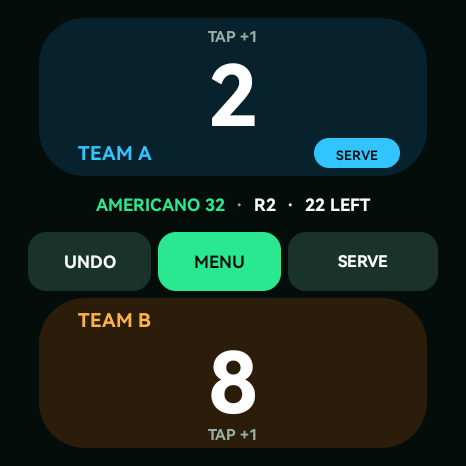
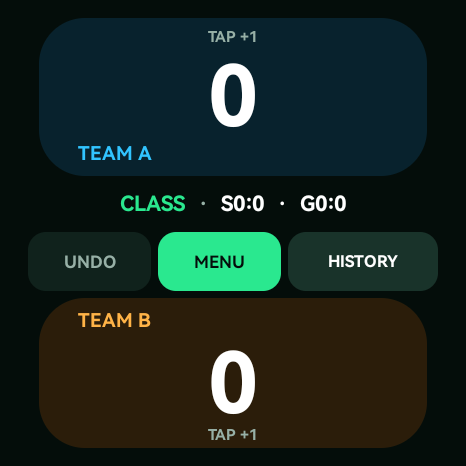
feat: enlarge compact match status

diff --git a/entry/src/main/js/MainAbility/pages/index/index.js b/entry/src/main/js/MainAbility/pages/index/index.js
@@ -63,6 +63,8 @@ export default {
     progressPercent: 0,
     showServer: true,
     currentServer: 'A',
+    matchInfoText: 'AM24 · R1 · 24 LEFT',
+    matchInfoClass: '',
     statusText: 'IN PLAY',
     statusClass: '',
     completedClass: '',
@@ -151,6 +153,42 @@ export default {
     return this.$t('strings.americano') + ' ' + String(settings.totalPoints);
   },
 
+  compactModeLabel(mode, settings) {
+    if (mode === 'classic') return 'CLASS';
+    if (mode === 'single_set') return '1SET';
+    if (mode === 'tie_break') return 'TB' + String(settings.target);
+    if (mode === 'super_tie_break') return 'STB' + String(settings.target);
+    if (mode === 'race_to_n') return 'RACE' + String(settings.target);
+    return 'AM' + String(settings.totalPoints);
+  },
+
+  compactMatchInfo(state, presentation) {
+    const mode = this.compactModeLabel(state.mode, state.settings);
+    if (presentation.completed) {
+      const result = presentation.winner === 'draw'
+        ? 'DRAW'
+        : String(presentation.winner) + ' WINS';
+      return mode + ' · ' + result;
+    }
+    if ((state.mode === 'classic' || state.mode === 'single_set')
+        && presentation.tieBreak) {
+      return mode + ' · TB · S' + presentation.setsA + ':' + presentation.setsB
+        + ' · G' + presentation.gamesA + ':' + presentation.gamesB;
+    }
+    if (state.mode === 'classic') {
+      return mode + ' · S' + presentation.setsA + ':' + presentation.setsB
+        + ' · G' + presentation.gamesA + ':' + presentation.gamesB;
+    }
+    if (state.mode === 'single_set') {
+      return mode + ' · G' + presentation.gamesA + ':' + presentation.gamesB;
+    }
+    if (state.mode === 'americano') {
+      return mode + ' · R' + state.roundNumber + ' · '
+        + presentation.remainingPoints + ' LEFT';
+    }
+    return mode + ' · ' + presentation.remainingPoints + ' LEFT';
+  },
+
   renderEngine() {
     const state = engine.state;
     const presentation = engine.presentation;
@@ -170,6 +208,8 @@ export default {
     this.currentServer = presentation.currentServer;
     this.completedClass = presentation.completed ? 'complete-card' : '';
     this.statusClass = presentation.completed ? 'finished-status' : '';
+    this.matchInfoText = this.compactMatchInfo(state, presentation);
+    this.matchInfoClass = presentation.completed ? 'match-info-finished' : '';
     if (presentation.completed) {
       this.statusText = presentation.winner === 'draw'
         ? this.$t('strings.roundDraw')

diff --git a/entry/src/main/js/MainAbility/pages/index/index.css b/entry/src/main/js/MainAbility/pages/index/index.css
@@ -368,6 +368,14 @@ switch {
   text-align: center;
 }
 
+.match-info-line {
+  width: 100%;
+  color: #f0f3f8;
+  font-size: 20px;
+  font-weight: 700;
+  text-align: center;
+}
+
 .server-line {
   width: 100%;
   color: #ffcb45;
@@ -384,6 +392,7 @@ switch {
   text-align: center;
 }
 
+.match-info-finished { color: #7cff9b; }
 .finished-status { color: #7cff9b; }
 
 .footer-row {

diff --git a/compat-android/src/com/vekom/padelprobe/MainActivity.java b/compat-android/src/com/vekom/padelprobe/MainActivity.java
@@ -478,16 +478,7 @@ public final class MainActivity extends Activity {
                     Color.WHITE, Paint.Align.CENTER, true);
             drawTeamHeader(canvas, Team.A, 160, 138, 168);
 
-            String headline = state.completed ? engine.statusLabel()
-                    : state.inTieBreak ? "TIE-BREAK" : engine.modeLabel();
-            if (!state.completed && state.mode == Mode.AMERICANO) {
-                drawAmericanoStatusLine(canvas, state);
-            } else {
-                text(canvas, headline, BASE / 2, 199, state.completed ? 19 : 17,
-                        green, Paint.Align.CENTER, true);
-                text(canvas, matchDetailLabel(state), BASE / 2, 222, 15,
-                        state.completed ? Color.WHITE : muted, Paint.Align.CENTER, true);
-            }
+            drawMatchInfoLine(canvas, state);
 
             smallButton(canvas, 28, 232, 151, 291, "UNDO",
                     engine.canUndo() ? panelLight : panel,
@@ -536,33 +527,64 @@ public final class MainActivity extends Activity {
             return "TAP +1";
         }
 
-        private String matchDetailLabel(State state) {
-            if (state.mode == Mode.AMERICANO) {
-                int played = state.pointsA + state.pointsB;
-                int remaining = Math.max(0, state.settings.target - played);
-                return "ROUND " + state.roundNumber + "   ·   " + remaining + " LEFT";
-            }
-            return engine.detailLabel().replace("   ", "   ·   ");
-        }
-
-        private void drawAmericanoStatusLine(Canvas canvas, State state) {
-            int played = state.pointsA + state.pointsB;
-            int remaining = Math.max(0, state.settings.target - played);
-            String mode = engine.modeLabel();
+        private void drawMatchInfoLine(Canvas canvas, State state) {
+            String mode = compactMatchMode(state);
             String separator = "  ·  ";
-            String progress = "R" + state.roundNumber + separator + remaining + " LEFT";
-            float size = 17f;
-            paint.setTextSize(size);
+            String status = compactMatchStatus(state);
+            float size = 21f;
             paint.setTypeface(android.graphics.Typeface.DEFAULT_BOLD);
+            paint.setTextSize(size);
+            while (size > 19f && paint.measureText(mode + separator + status) > 366f) {
+                size -= 1f;
+                paint.setTextSize(size);
+            }
+
             float modeWidth = paint.measureText(mode);
             float separatorWidth = paint.measureText(separator);
-            float progressWidth = paint.measureText(progress);
-            float x = (BASE - modeWidth - separatorWidth - progressWidth) / 2f;
-            text(canvas, mode, x, 211, size, green, Paint.Align.LEFT, true);
+            float statusWidth = paint.measureText(status);
+            float x = (BASE - modeWidth - separatorWidth - statusWidth) / 2f;
+            int modeColor = state.completed ? muted : green;
+            int statusColor = state.completed ? green : Color.WHITE;
+            text(canvas, mode, x, 211, size, modeColor, Paint.Align.LEFT, true);
             x += modeWidth;
             text(canvas, separator, x, 211, size, muted, Paint.Align.LEFT, true);
             x += separatorWidth;
-            text(canvas, progress, x, 211, size, Color.WHITE, Paint.Align.LEFT, true);
+            text(canvas, status, x, 211, size, statusColor, Paint.Align.LEFT, true);
+        }
+
+        private String compactMatchMode(State state) {
+            if (state.mode == Mode.CLASSIC) return "CLASS";
+            if (state.mode == Mode.SINGLE_SET) return "1SET";
+            if (state.mode == Mode.TIE_BREAK) return "TB" + state.settings.target;
+            if (state.mode == Mode.SUPER_TIE_BREAK) return "STB" + state.settings.target;
+            if (state.mode == Mode.RACE_TO_N) return "RACE" + state.settings.target;
+            return "AM" + state.settings.target;
+        }
+
+        private String compactMatchStatus(State state) {
+            if (state.completed) {
+                return "DRAW".equals(state.winner) ? "DRAW" : state.winner + " WINS";
+            }
+            if ((state.mode == Mode.CLASSIC || state.mode == Mode.SINGLE_SET)
+                    && state.inTieBreak) {
+                return "TB  ·  S" + state.setsA + ":" + state.setsB
+                        + "  ·  G" + state.gamesA + ":" + state.gamesB;
+            }
+            if (state.mode == Mode.CLASSIC) {
+                return "S" + state.setsA + ":" + state.setsB
+                        + "  ·  G" + state.gamesA + ":" + state.gamesB;
+            }
+            if (state.mode == Mode.SINGLE_SET) {
+                return "G" + state.gamesA + ":" + state.gamesB;
+            }
+            if (state.mode == Mode.AMERICANO) {
+                int played = state.pointsA + state.pointsB;
+                int remaining = Math.max(0, state.settings.target - played);
+                return "R" + state.roundNumber + "  ·  " + remaining + " LEFT";
+            }
+            int remaining = Math.max(0,
+                    state.settings.target - Math.max(state.pointsA, state.pointsB));
+            return remaining + " LEFT";
         }
 
         private void drawMenu(Canvas canvas) {

diff --git a/docs/USER_GUIDE.md b/docs/USER_GUIDE.md
@@ -101,7 +101,7 @@ PadelScore ведёт счёт матча прямо на часах без те
 | Большая верхняя зона `TEAM A` | Добавить очко команде A |
 | Большая нижняя зона `TEAM B` | Добавить очко команде B |
 | Цветная плашка `SERVE` | Показывает текущую подающую команду |
-| Центральный статус | В Americano одной строкой показывает режим, раунд и остаток, например `AMERICANO 32 · R1 · 10 LEFT`; в остальных режимах — сеты/геймы или цель |
+| Центральный статус | Одной крупной строкой показывает сокращённый режим и состояние матча: `CLASS · S0:0 · G2:1`, `AM32 · R1 · 10 LEFT` или `TB7 · 3 LEFT` |
 | `UNDO` | Отменить последнее действие; можно нажимать несколько раз |
 | `MENU` | Открыть меню управления матчем |
 | `SERVE` | Вручную передать подачу другой команде |
@@ -116,6 +116,12 @@ PadelScore ведёт счёт матча прямо на часах без те
 Счёт показан самым крупным шрифтом на экране. Надпись `TAP +1` напоминает, что
 вся цветная карточка команды является кнопкой. После принятого очка карточка
 кратко подсвечивается и показывает `+1 ADDED`; вибрация подтверждает действие.
+
+В центральной строке используются короткие обозначения: `CLASS` — классический
+матч, `1SET` — один сет, `TB` — тай-брейк, `STB` — супер-тай-брейк, `RACE` —
+Race to N, `AM` — Americano, `S` — сеты, `G` — геймы, `R` — номер раунда.
+После завершения эта же строка крупно показывает результат, например
+`CLASS · A WINS` или `AM32 · DRAW`.
 
 Во время активного матча приложение удерживает экран включённым. Если часы всё
 же заблокировались по системному тайм-ауту, разблокируйте их: текущий счёт уже
